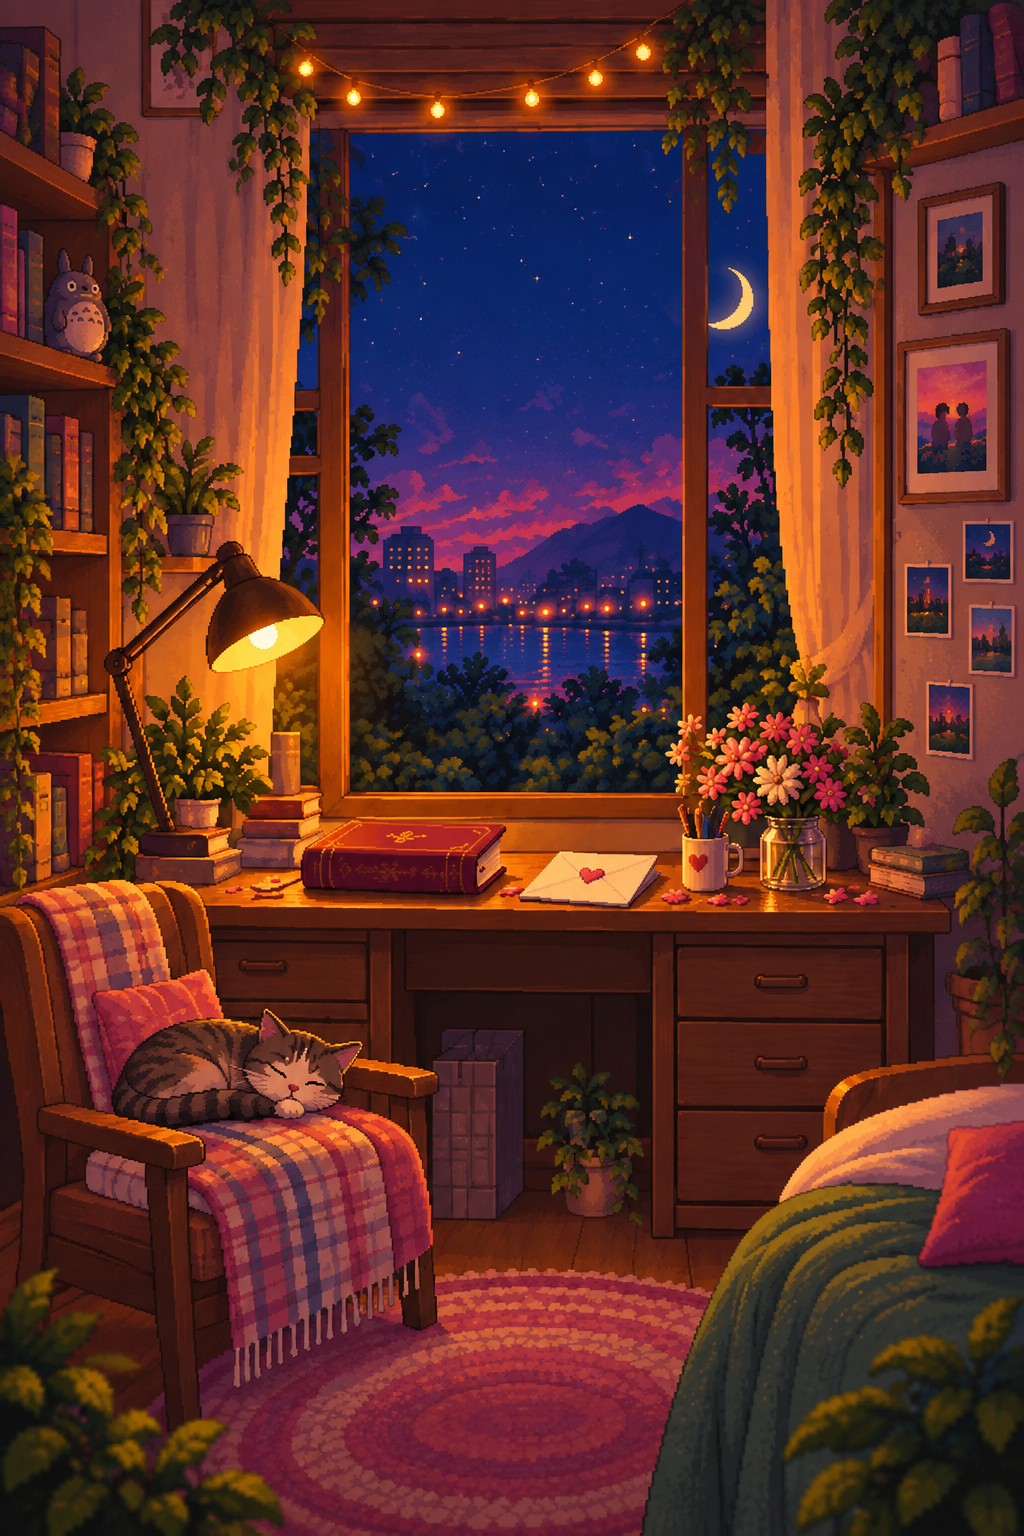
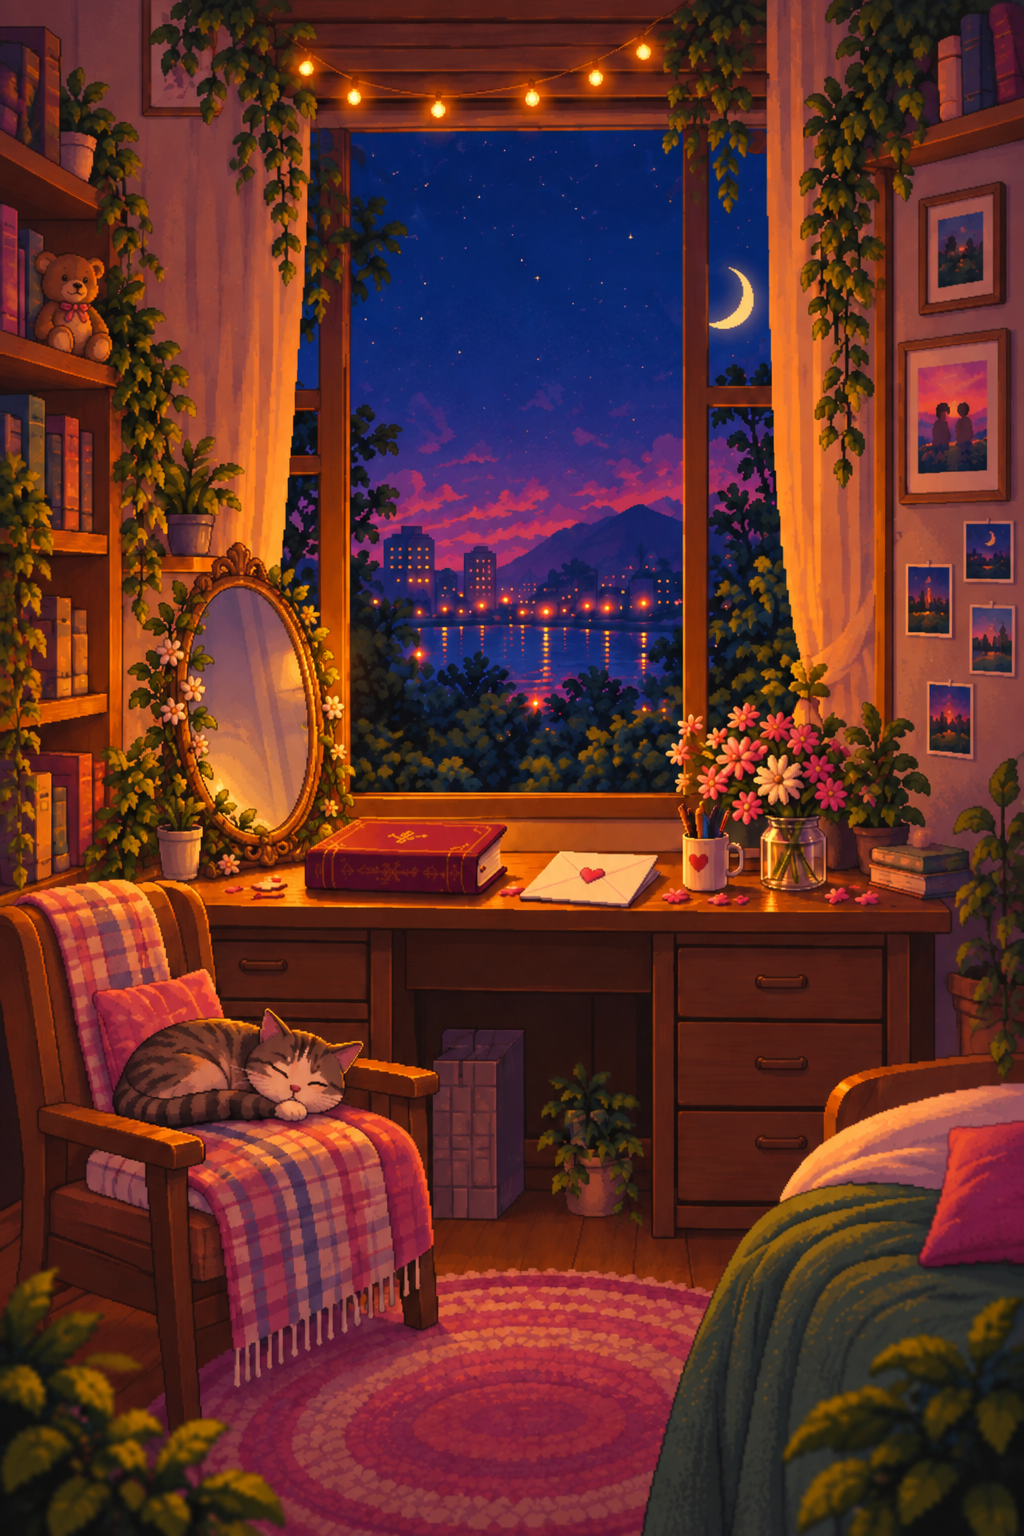
Add files via upload

diff --git a/script.js b/script.js
@@ -161,3 +161,119 @@ if (kissBackdrop) kissBackdrop.addEventListener("click", closeKissModal);
 document.addEventListener("keydown", (event) => {
   if (event.key === "Escape") closeKissModal();
 });
+
+
+// =========================
+// MIRROR — 30 RANDOM COMPLIMENTS
+// =========================
+
+const mirrorHotspot = document.querySelector(".mirror-hotspot");
+const mirrorModal = document.getElementById("mirrorModal");
+const mirrorClose = document.querySelector(".mirror-close");
+const mirrorBackdrop = document.querySelector(".mirror-backdrop");
+const mirrorNext = document.getElementById("mirrorNext");
+const mirrorCompliment = document.getElementById("mirrorCompliment");
+const mirrorCount = document.getElementById("mirrorCount");
+
+const mirrorCompliments = [
+  "Yep. Still the most beautiful girl I know. ♡",
+  "You have no idea how lucky Somda feels.",
+  "Someone out there is completely, hopelessly in love with you.",
+  "Your smile is still my favourite view.",
+  "You make ordinary days feel like something worth remembering.",
+  "If I could freeze one moment, it'd be the moment you smile.",
+  "You look like someone's favourite person. Because you are.",
+  "Somehow, you get prettier every time I see you.",
+  "Awww. Look at you being adorable again.",
+  "Mirror report: dangerously cute today.",
+  "Yep. Certified sweetheart. ♡",
+  "That face deserves approximately 47 kisses.",
+  "You look very huggable today.",
+  "The mirror would like to officially compliment you.",
+  "Warning: excessive cuteness detected.",
+  "Did you really need the mirror to tell you you're pretty?",
+  "Okay, stop staring. You're making the mirror nervous.",
+  "Someone clearly woke up determined to be gorgeous.",
+  "Honestly? A little unfair to everyone else.",
+  "Breaking news: Aaru is still ridiculously pretty.",
+  "You came here for a compliment, didn't you? 😏",
+  "Fine. You're pretty. Happy now?",
+  "I would compliment you more, but your ego is already getting dangerous.",
+  "Somda is going to have a very hard time behaving around you.",
+  "That look? Yeah… absolutely not helping him behave.",
+  "You know exactly what you're doing with that face, don't you?",
+  "If Somda were here, that mirror probably wouldn't get much attention.",
+  "Pretty face. Dangerous effect. 😏",
+  "Honestly, Aaru… come closer. I think you deserve a kiss.",
+  "You look way too good tonight. Come here and let me admire you properly. ❤"
+];
+
+let mirrorDeck = [];
+let mirrorSeen = 0;
+
+function shuffleMirrorDeck() {
+  mirrorDeck = [...mirrorCompliments];
+
+  for (let i = mirrorDeck.length - 1; i > 0; i--) {
+    const j = Math.floor(Math.random() * (i + 1));
+    [mirrorDeck[i], mirrorDeck[j]] = [mirrorDeck[j], mirrorDeck[i]];
+  }
+
+  mirrorSeen = 0;
+}
+
+function nextMirrorCompliment() {
+  if (!mirrorDeck.length || mirrorSeen >= mirrorDeck.length) {
+    shuffleMirrorDeck();
+  }
+
+  const text = mirrorDeck[mirrorSeen];
+  mirrorSeen += 1;
+
+  mirrorCompliment.textContent = text;
+  mirrorCount.textContent = `${mirrorSeen} / ${mirrorCompliments.length}`;
+
+  mirrorCompliment.animate(
+    [
+      { opacity: 0, transform: "translateY(5px)" },
+      { opacity: 1, transform: "translateY(0)" }
+    ],
+    { duration: 260, easing: "ease-out" }
+  );
+
+  mirrorNext.textContent =
+    mirrorSeen === mirrorCompliments.length ? "More secrets ♡" : "Awww ♡";
+}
+
+function openMirrorModal() {
+  if (!mirrorDeck.length || mirrorSeen >= mirrorDeck.length) {
+    shuffleMirrorDeck();
+  }
+
+  mirrorModal.classList.add("open");
+  mirrorModal.setAttribute("aria-hidden", "false");
+  nextMirrorCompliment();
+}
+
+function closeMirrorModal() {
+  mirrorModal.classList.remove("open");
+  mirrorModal.setAttribute("aria-hidden", "true");
+}
+
+if (mirrorHotspot) {
+  mirrorHotspot.addEventListener("click", () => {
+    hotspots.forEach((item) => item.classList.remove("active"));
+    openMirrorModal();
+  });
+}
+
+if (mirrorNext) {
+  mirrorNext.addEventListener("click", nextMirrorCompliment);
+}
+
+if (mirrorClose) mirrorClose.addEventListener("click", closeMirrorModal);
+if (mirrorBackdrop) mirrorBackdrop.addEventListener("click", closeMirrorModal);
+
+document.addEventListener("keydown", (event) => {
+  if (event.key === "Escape") closeMirrorModal();
+});

diff --git a/style.css b/style.css
@@ -615,3 +615,152 @@ button {
     padding: 30px 22px 26px;
   }
 }
+
+
+/* =========================
+   MIRROR — RANDOM COMPLIMENTS
+========================= */
+
+.mirror-hotspot {
+  /* Position of the oval mirror in the approved room image. */
+  left: 15%;
+  top: 37%;
+  width: 18%;
+  height: 23%;
+}
+
+.mirror-hotspot::after {
+  content: "Click me ♡";
+  bottom: auto;
+  top: calc(100% + 10px);
+}
+
+.mirror-modal {
+  position: fixed;
+  inset: 0;
+  z-index: 1100;
+  display: flex;
+  align-items: center;
+  justify-content: center;
+  padding: 20px;
+  opacity: 0;
+  visibility: hidden;
+  pointer-events: none;
+  transition: opacity .25s ease, visibility .25s ease;
+}
+
+.mirror-modal.open {
+  opacity: 1;
+  visibility: visible;
+  pointer-events: auto;
+}
+
+.mirror-backdrop {
+  position: absolute;
+  inset: 0;
+  background: rgba(18, 10, 18, .68);
+  backdrop-filter: blur(5px);
+}
+
+.mirror-card {
+  position: relative;
+  width: min(430px, 100%);
+  padding: 30px 26px 24px;
+  text-align: center;
+  border: 1px solid rgba(255, 194, 208, .35);
+  border-radius: 20px;
+  background: linear-gradient(145deg, #24151f, #130d15);
+  box-shadow: 0 25px 80px rgba(0,0,0,.45);
+  transform: translateY(12px) scale(.97);
+  transition: transform .3s ease;
+}
+
+.mirror-modal.open .mirror-card {
+  transform: translateY(0) scale(1);
+}
+
+.mirror-close {
+  position: absolute;
+  top: 9px;
+  right: 13px;
+  border: 0;
+  background: transparent;
+  color: #e8cbd1;
+  font-size: 26px;
+  line-height: 1;
+  cursor: pointer;
+}
+
+.mirror-small {
+  margin-bottom: 10px;
+  color: #c9a9b2;
+  font-family: "DM Mono", monospace;
+  font-size: 9px;
+  letter-spacing: 2px;
+}
+
+.mirror-card h2 {
+  margin: 0 0 16px;
+  color: #fff1f4;
+  font-family: "Playfair Display", serif;
+  font-size: clamp(25px, 5vw, 34px);
+  font-weight: 500;
+}
+
+.mirror-compliment {
+  min-height: 92px;
+  display: flex;
+  align-items: center;
+  justify-content: center;
+  padding: 20px 18px;
+  border-radius: 14px;
+  background: rgba(255, 164, 184, .10);
+  color: #f4dce1;
+  font-family: "Playfair Display", serif;
+  font-size: 18px;
+  line-height: 1.65;
+}
+
+.mirror-next {
+  margin-top: 18px;
+  border: 1px solid rgba(255, 194, 208, .42);
+  border-radius: 999px;
+  padding: 11px 22px;
+  background: rgba(255, 164, 184, .14);
+  color: #fff0f4;
+  font-family: "DM Mono", monospace;
+  font-size: 11px;
+  cursor: pointer;
+  transition: transform .2s ease, background .2s ease;
+}
+
+.mirror-next:hover {
+  transform: translateY(-2px);
+  background: rgba(255, 164, 184, .22);
+}
+
+.mirror-count {
+  min-height: 16px;
+  margin-top: 11px;
+  color: #c9a9b2;
+  font-family: "DM Mono", monospace;
+  font-size: 9px;
+  letter-spacing: 1px;
+}
+
+@media (max-width: 600px) {
+  .mirror-hotspot {
+    left: 14%;
+    top: 37%;
+    width: 20%;
+    height: 23%;
+  }
+
+  .mirror-card {
+    padding: 27px 20px 22px;
+  }
+
+  .mirror-compliment {
+    font-size: 17px;
+  }
+}

diff --git a/index.html b/index.html
@@ -92,6 +92,12 @@
           aria-label="I love u Aaru Baby"
         ></button>
 
+        <!-- MIRROR — COMPLIMENTS -->
+        <button
+          class="hotspot mirror-hotspot"
+          aria-label="Look into the mirror"
+        ></button>
+
         <!-- BED — PRIVATE ROMANTIC CORNER -->
         <button
           class="hotspot bed-hotspot"
@@ -111,6 +117,25 @@
 
   </main>
 
+
+
+
+  <!-- MIRROR COMPLIMENTS -->
+  <div class="mirror-modal" id="mirrorModal" aria-hidden="true">
+    <div class="mirror-backdrop"></div>
+
+    <div class="mirror-card" role="dialog" aria-modal="true" aria-labelledby="mirrorTitle">
+      <button class="mirror-close" aria-label="Close">×</button>
+
+      <div class="mirror-small">A LITTLE LOOK IN THE MIRROR</div>
+      <h2 id="mirrorTitle">The Mirror says...</h2>
+
+      <div class="mirror-compliment" id="mirrorCompliment"></div>
+
+      <button class="mirror-next" id="mirrorNext">Awww ♡</button>
+      <div class="mirror-count" id="mirrorCount"></div>
+    </div>
+  </div>
 
 
   <!-- PRIVATE BED INTERACTION -->
